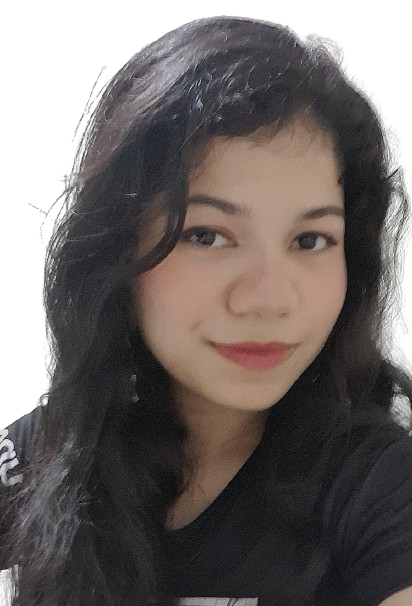
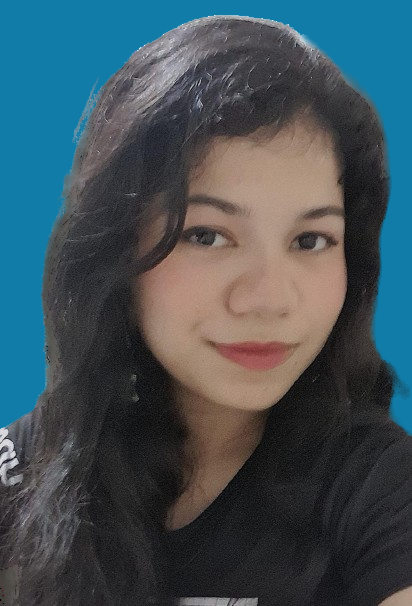
Update

Changed region(s): [[0.0, 0.0, 1.0, 0.7426], [0.0, 0.9208, 0.0583, 1.0]]

diff --git a/index.html b/index.html
@@ -27,7 +27,7 @@
     </header>
     <section class="home" id="home">
         <div class="home-img">
-            <img src="/img/no-bg-photo-Photoroom.png" alt="">
+            <img src="/img/no-bg-photo.png" alt="">
         </div>
         <div class="home-content">
             <h1>Olá, sou a <span>Leticia</span></h1>
@@ -35,8 +35,8 @@
             <p>Lorem ipsum dolor sit amet consectetur adipisicing elit. Aliquid, ex reiciendis id accusantium nemo natus hic facere? Voluptates libero, aspernatur, fuga autem harum rem tenetur excepturi accusantium itaque, iste labore!</p>
 
             <div class="social-icon">
-                <a href="#"><i class="fa-brands fa-linkedin"></i></a>
-                <a href="#"><i class="fa-brands fa-github"></i></a>
+                <a href="https://www.linkedin.com/in/leticianakaharaborbolato/"><i class="fa-brands fa-linkedin"></i></a>
+                <a href="https://github.com/leticianb"><i class="fa-brands fa-github"></i></a>
             </div>
             <a href="#" class="btn">Contato</a>
         </div>

diff --git a/css/style.css b/css/style.css
@@ -159,3 +159,31 @@ span {
     border-radius: 50%;
     box-shadow: 0 0 90px var(--main-color);
 }
+
+.home-img img:hover {
+    transform: scale(1.01);
+    filter: drop-shadow(0 0 90px var(--main-color));
+}
+
+.home-content p {
+    font-size: 1.8rem;
+    font-weight: 500;
+}
+
+.social-icon a {
+    display: inline-flex;
+    justify-content: center;
+    align-items: center;
+    width: 4rem;
+    height: 4rem;
+    margin-right: 1rem;
+    margin-top: 1rem;
+    background: var(--main-color);
+    border: 0.2rem solid var(--main-color);
+    font-size: 2rem;
+    border-radius: 30%;
+    color: var(--txt-color);
+    text-decoration: none;
+    /* filter: drop-shadow(0 0 5px var(--main-color)); */
+    cursor: pointer;
+}
